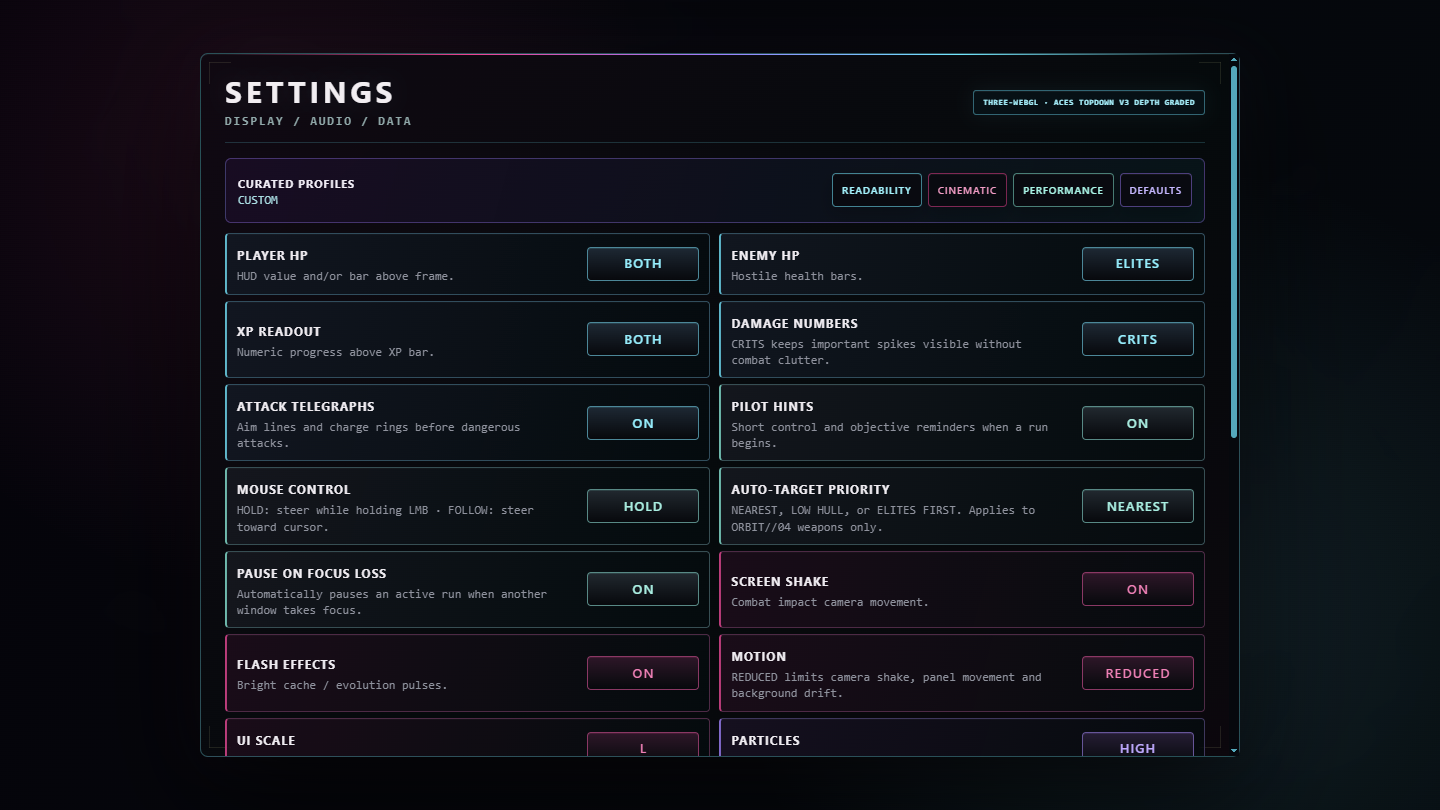
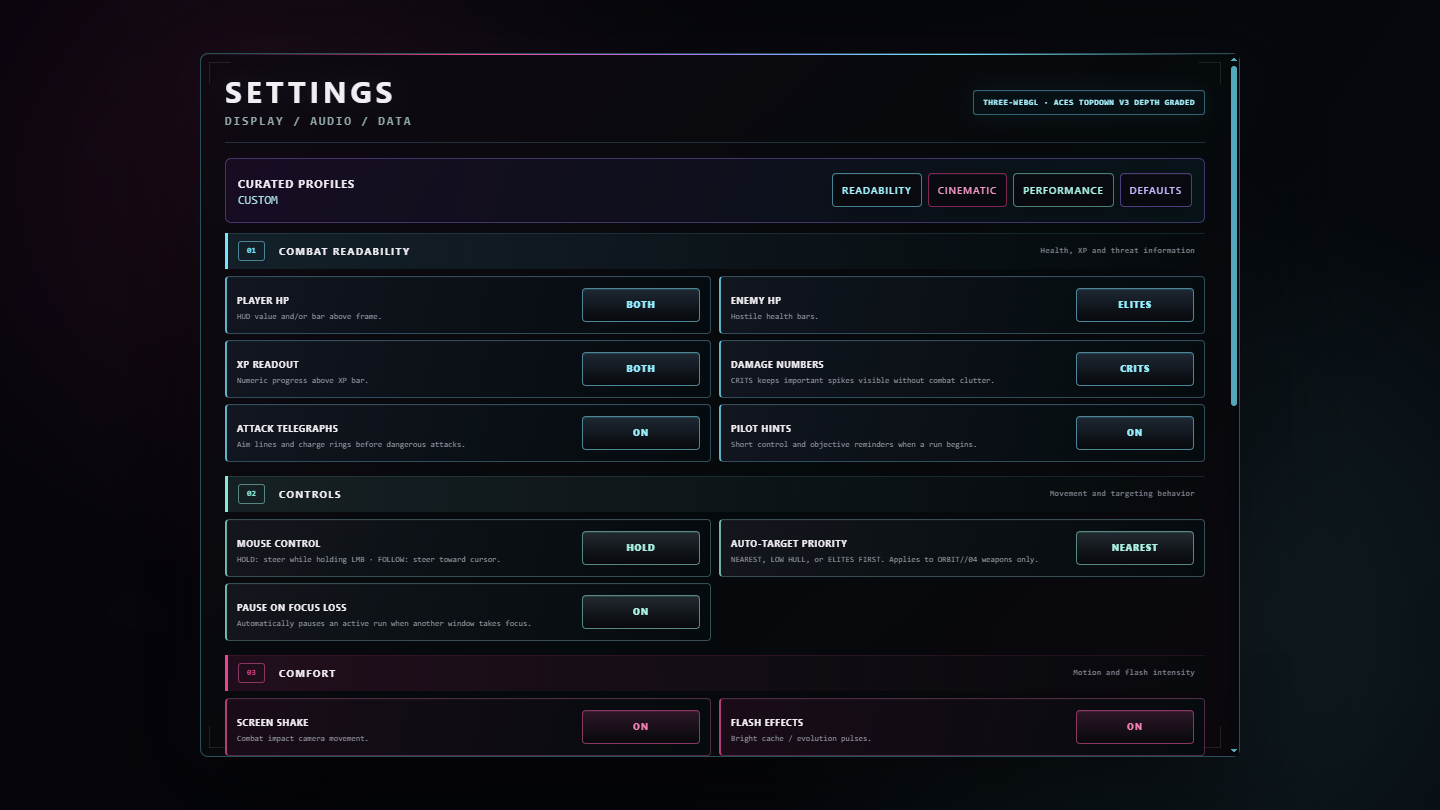
feat: sharpen survivor interface hierarchy

Changed region(s): [[0.1562, 0.2778, 0.875, 0.9259], [0.7188, 0.8025, 0.8438, 0.9259]]

diff --git a/game.js b/game.js
@@ -458,7 +458,7 @@ function renderMenu(){
   for(const [id,s] of Object.entries(SHIPS)){
     const unlocked=save.unlocked.includes(id),selected=save.selected===id;const b=document.createElement('button');b.className=`shipCard${selected?' selected':''}`;
     const cost=id==='oracle'&&save.achievements.includes('iff_friend')?Math.floor(s.cost*.7):s.cost;
-    const mastery=masteryLevel(id);b.style['--ship-accent']=hangarShipPalette(id).accent;b.setAttribute('aria-label',`${s.name}, ${s.role}${unlocked?', unlocked':`, locked, ${cost} credits`}`);b.innerHTML=`<canvas class="shipThumb" width="150" height="68" aria-hidden="true"></canvas><span class="shipCardTop"><b class="shipName">${s.name}</b><i style="color:${masteryColor(mastery)}">M${mastery}</i></span><span class="shipCardRole">${uiIconMarkup('frame')}${s.role}</span><span class="shipCardStatus">${selected?'ACTIVE':unlocked?'AVAILABLE':`${cost} CR`}</span>`;
+    const mastery=masteryLevel(id);b.style['--ship-accent']=hangarShipPalette(id).accent;b.dataset.state=selected?'selected':unlocked?'available':'locked';b.setAttribute('aria-label',`${s.name}, ${s.role}${unlocked?', unlocked':`, locked, ${cost} credits`}`);b.innerHTML=`<span class="shipCardBadge">${selected?'SELECTED':unlocked?'READY':'LOCKED'}</span><canvas class="shipThumb" width="150" height="68" aria-hidden="true"></canvas><span class="shipCardTop"><b class="shipName">${s.name}</b><i style="color:${masteryColor(mastery)}">M${mastery}</i></span><span class="shipCardRole">${uiIconMarkup('frame')}${s.role}</span><span class="shipCardStatus">${selected?'DEPLOYMENT FRAME':unlocked?'CLICK TO SELECT':`${cost} CR TO UNLOCK`}</span>`;
     b.onclick=()=>{AUDIO.sfx('ui');if(!unlocked){if(save.credits>=cost){save.credits-=cost;save.unlocked.push(id);save.selected=id;persist();checkMetaAchievements()}else toast('INSUFFICIENT CREDITS',`${cost-save.credits} CR required.`);return}save.selected=id;persist()};grid.appendChild(b);
     renderShipCanvas(b.querySelector('canvas'),id,false,!unlocked);
   }
@@ -732,10 +732,10 @@ function renderBuildCompass(){const box=$('buildCompass');if(!box)return;const t
 function tryEvolutions(){const evolved=[];for(const [id,w] of Object.entries(state.weapons)){const m=WEAPON_META[id];if(w.evolved||w.level<6||(state.passives[m.req]||0)<4)continue;w.evolved=true;state.evolutions++;if(!save.discoveredEvolutions.includes(id)){save.discoveredEvolutions.push(id);persist(false)}state.score+=420*state.diff.score*(state.contract?.score||1);state.newUnlocks.push(`${m.evo} evolution`);evolved.push(m.evo)}if(evolved.length){AUDIO.sfx('evolve');addShake(5);flashWrap();enqueueCeremony('SYSTEM COMPATIBILITY DETECTED',evolved.join(' / '),680,()=>{AUDIO.sfx('evolve');flashWrap()},'evolution')}checkSynergies();return evolved}
 function buildOfferPool(){
   const offers=[];
-  for(const [id,w] of Object.entries(state.weapons))if(w.level<6){const m=WEAPON_META[id];offers.push({key:`w:${id}`,systemId:id,weight:3.35,kind:'WEAPON',name:m.name,lvl:`LEVEL ${w.level} → ${w.level+1}`,desc:weaponLevelDesc(id,w.level+1),apply:()=>w.level++})}
-  for(const [id,w] of Object.entries(state.weapons))if(w.evolved&&w.overcharge<3){const m=WEAPON_META[id];offers.push({key:`oc:${id}`,systemId:id,weight:.78,kind:'OVERCHARGE',name:m.evo,lvl:`OC ${w.overcharge} → ${w.overcharge+1}`,desc:'System output +16%. Can stack three times after evolution.',apply:()=>{w.overcharge++;save.stats.overcharges++;AUDIO.sfx('overdrive',2)}})}
+  for(const [id,w] of Object.entries(state.weapons))if(w.level<6){const m=WEAPON_META[id];offers.push({key:`w:${id}`,systemId:id,weight:3.35,kind:'WEAPON',name:m.name,lvl:`UPGRADE TO LV ${w.level+1}`,desc:weaponLevelDesc(id,w.level+1),apply:()=>w.level++})}
+  for(const [id,w] of Object.entries(state.weapons))if(w.evolved&&w.overcharge<3){const m=WEAPON_META[id];offers.push({key:`oc:${id}`,systemId:id,weight:.78,kind:'OVERCHARGE',name:m.evo,lvl:`OVERCHARGE ${w.overcharge+1}`,desc:'System output +16%. Can stack three times after evolution.',apply:()=>{w.overcharge++;save.stats.overcharges++;AUDIO.sfx('overdrive',2)}})}
   if(Object.keys(state.weapons).length<5)for(const [id,m] of Object.entries(WEAPON_META))if(!state.weapons[id])offers.push({key:`new:${id}`,systemId:id,weight:1.65,kind:'NEW WEAPON',name:m.name,lvl:'NEW SYSTEM',desc:m.desc,apply:()=>addWeapon(id)});
-  for(const [id,m] of Object.entries(PASSIVES)){const l=state.passives[id]||0;if(l>=m.max)continue;if(id==='iff'&&state.level<5)continue;offers.push({key:`p:${id}`,passiveId:id,weight:id==='iff'?.58:2.05,kind:id==='iff'?'RARE SYSTEM':'MODULE',name:m.name,lvl:l===0?'NEW MODULE':`LEVEL ${l} → ${l+1}`,desc:m.desc(l+1),evo:id==='iff'?'Boss and elite signatures resist conversion.':'',apply:()=>{state.passives[id]=l+1;m.apply(l+1)}})}
+  for(const [id,m] of Object.entries(PASSIVES)){const l=state.passives[id]||0;if(l>=m.max)continue;if(id==='iff'&&state.level<5)continue;offers.push({key:`p:${id}`,passiveId:id,weight:id==='iff'?.58:2.05,kind:id==='iff'?'RARE SYSTEM':'MODULE',name:m.name,lvl:l===0?'NEW MODULE':`UPGRADE TO LV ${l+1}`,desc:m.desc(l+1),evo:id==='iff'?'Boss and elite signatures resist conversion.':'',apply:()=>{state.passives[id]=l+1;m.apply(l+1)}})}
   if(state.level>=9&&Object.keys(state.protocols).length<2)for(const [id,m] of Object.entries(PROTOCOLS))if(!state.protocols[id])offers.push({key:`proto:${id}`,weight:.36,kind:'VOLATILE PROTOCOL',name:m.name,lvl:'ONE-TIME',desc:m.desc,evo:'Permanent risk/reward modifier for this run.',apply:()=>{state.protocols[id]=true;m.apply();AUDIO.sfx('overdrive',2);message(`PROTOCOL INSTALLED\n${m.name}`,900)}});
   if(state.level>=12&&Object.keys(state.artifacts).length<1)for(const [id,m] of Object.entries(ARTIFACTS))if(!state.artifacts[id])offers.push({key:`artifact:${id}`,weight:.10,kind:'ARTIFACT',name:m.name,lvl:'ULTRA-RARE',desc:m.desc,evo:'One artifact maximum per run.',apply:()=>{state.artifacts[id]=true;discoverArtifact(id);m.apply();AUDIO.sfx('artifact');flashWrap();message(`ARTIFACT RECOVERED\n${m.name}`,1200)}});
   if((state.contract?.heal??1)>0)offers.push({key:'repair',weight:state.p.hp<state.p.maxHp*.48?.72:.035,kind:'UTILITY',name:'FIELD REPAIR',lvl:'INSTANT',desc:'Restore 16% maximum hull.',evo:'',apply:()=>state.p.hp=Math.min(state.p.maxHp,state.p.hp+state.p.maxHp*.16*(state.contract?.heal??1))});
@@ -757,7 +757,7 @@ function renderRerollInfo(isNewDraw=false,signalTier=''){const pinned=state.pinn
 function renderOfferPins(offers){const box=$('offerPins');box.innerHTML='';for(const [i,o] of offers.entries()){const b=document.createElement('button'),pinned=state.pinnedOfferKey===o.key;b.className=`offerPin${pinned?' selected':''}`;b.textContent=`${pinned?'PINNED':'PIN'} [${i+1}] ${o.name}`;b.setAttribute('aria-pressed',String(pinned));b.onclick=()=>togglePinnedOffer(o.key);box.appendChild(b)}}
 function togglePinnedOffer(key){if(!state?.choosing||state.choiceMode!=='level')return false;state.pinnedOfferKey=state.pinnedOfferKey===key?'':key;AUDIO.sfx('ui');renderOfferPins(state.currentOffers);renderRerollInfo();return true}
 function openLevel(){state.choosing=true;state.choiceMode='level';state.paused=true;state.pinnedOfferKey='';AUDIO.sfx('level');show('levelScreen');renderOffers()}
-function renderOffers(previousKeys=[],pinnedOffer=null,draw={}){const offers=drawFreshOffers(previousKeys,pinnedOffer,draw.forcedOffer||null),c=$('choices');c.innerHTML='';renderBuildCompass();offers.forEach((o,i)=>{const b=document.createElement('button'),connection=offerConnection(o),shortConnection=connectionSummary(connection),breakpoint=offerBreakpoint(o),impact=offerImpact(o),summary=offerSummary(o),presentation=offerPresentation(o,breakpoint),signalNote=o.signalTier==='RESONANT'?'RESONANT BONUS · +25% DAMAGE FOR 20 SEC':o.signalTier==='TUNED'?'TUNED SIGNAL · MATCHES YOUR CURRENT BUILD':'';b.className=`choice${breakpoint?' breakpoint':''}${o.signalTier?' signalOffer':''}`;b.dataset.tone=presentation.tone;if(o.signalTier)b.dataset.signal=o.signalTier.toLowerCase();b.style.animationDelay=`${i*55}ms`;b.innerHTML=`<span class="choiceTop"><span class="choiceIdentity"><span class="choiceGlyph">${uiIconMarkup(presentation.icon)}</span><span><span class="kind">${o.kind}</span><span class="name"><kbd>${i+1}</kbd>${o.name}</span></span></span><span class="lvl">${o.lvl}</span></span><span class="choiceBenefit"><small>YOU GET</small><b>${summary}</b></span>${signalNote?`<span class="signalBonus">${signalNote}</span>`:''}${shortConnection?`<span class="connection">${shortConnection}</span>`:''}<span class="choiceAction"><span>${presentation.action}</span><kbd>PRESS ${i+1}</kbd></span>`;b.title=[o.desc,impact,signalNote,connection].filter(Boolean).join('\n');b.setAttribute('aria-label',[`${i+1}. ${o.name}`,o.lvl,summary,signalNote,connection].filter(Boolean).join('. '));b.onclick=()=>selectOffer(o);c.appendChild(b)});state.currentOffers=offers;renderOfferPins(offers);renderRerollInfo(previousKeys.length>0,draw.tier||'');$('rerollBtn').disabled=state.rerolls<=0;$('signalDrawBtn').disabled=state.rerolls<=0;$('skipBtn').disabled=state.skips<=0;$('levelMeta').textContent=`LEVEL ${state.level}`}
+function renderOffers(previousKeys=[],pinnedOffer=null,draw={}){const offers=drawFreshOffers(previousKeys,pinnedOffer,draw.forcedOffer||null),c=$('choices');c.innerHTML='';renderBuildCompass();offers.forEach((o,i)=>{const b=document.createElement('button'),connection=offerConnection(o),shortConnection=connectionSummary(connection),breakpoint=offerBreakpoint(o),impact=offerImpact(o),summary=offerSummary(o),presentation=offerPresentation(o,breakpoint),signalNote=o.signalTier==='RESONANT'?'RESONANT BONUS · +25% DAMAGE FOR 20 SEC':o.signalTier==='TUNED'?'TUNED SIGNAL · MATCHES YOUR CURRENT BUILD':'';b.className=`choice${breakpoint?' breakpoint':''}${o.signalTier?' signalOffer':''}`;b.dataset.tone=presentation.tone;if(o.signalTier)b.dataset.signal=o.signalTier.toLowerCase();b.style.animationDelay=`${i*55}ms`;b.innerHTML=`<span class="choiceNumber" aria-hidden="true">${i+1}</span><span class="choiceTop"><span class="choiceIdentity"><span class="choiceGlyph">${uiIconMarkup(presentation.icon)}</span><span><span class="kind">${o.kind}</span><span class="name">${o.name}</span></span></span><span class="lvl">${o.lvl}</span></span><span class="choiceBenefit"><small>INSTANT EFFECT</small><b>${summary}</b></span>${signalNote?`<span class="signalBonus">${signalNote}</span>`:''}${shortConnection?`<span class="connection">${shortConnection}</span>`:''}<span class="choiceAction"><span>${presentation.action}</span><kbd>SELECT ${i+1}</kbd></span>`;b.title=[o.desc,impact,signalNote,connection].filter(Boolean).join('\n');b.setAttribute('aria-label',[`${i+1}. ${o.name}`,o.lvl,summary,signalNote,connection].filter(Boolean).join('. '));b.onclick=()=>selectOffer(o);c.appendChild(b)});state.currentOffers=offers;renderOfferPins(offers);renderRerollInfo(previousKeys.length>0,draw.tier||'');$('rerollBtn').disabled=state.rerolls<=0;$('signalDrawBtn').disabled=state.rerolls<=0;$('skipBtn').disabled=state.skips<=0;$('levelMeta').textContent=`LEVEL ${state.level}`}
 function selectOffer(o){if(!o)return;const breakpoint=offerBreakpoint(o),special=o.key.startsWith('artifact:')||o.key.startsWith('proto:');if(!special)AUDIO.sfx('install',breakpoint?2:1);o.apply();if(o.signalTier==='RESONANT'){state.fieldBoostUntil=Math.max(state.fieldBoostUntil,state.time+20);rewardCue('RESONANT INSTALL',`${o.name} · +25% DAMAGE FOR 20 SEC`,3,1700)}recordUpgrade(o.name,o.kind,[o.lvl,o.signalTier==='RESONANT'?'+25% DAMAGE / 20 SEC':''].filter(Boolean).join(' · '));state.pinnedOfferKey='';state.upgradePulse=.9;state.lastUpgradeLabel=o.name;const evolved=tryEvolutions();if(breakpoint&&!evolved.length&&o.signalTier!=='RESONANT')rewardCue('BREAKPOINT REACHED',o.name,1,1250);hide('levelScreen');state.choosing=false;state.choiceMode='';state.paused=false;state.last=performance.now();processCeremony();if(!state.ceremony)processPendingLevel()}
 $('rerollBtn').onclick=()=>{if(state.rerolls>0){const previousKeys=state.currentOffers.map(o=>o.key),pinnedOffer=state.currentOffers.find(o=>o.key===state.pinnedOfferKey)||null;state.rerolls--;AUDIO.sfx('reroll');renderOffers(previousKeys,pinnedOffer)}};
 $('signalDrawBtn').onclick=()=>{if(state.rerolls<=0)return;const previousKeys=state.currentOffers.map(o=>o.key),pinnedOffer=state.currentOffers.find(o=>o.key===state.pinnedOfferKey)||null,roll=Math.random(),tier=roll<.08?'RESONANT':roll<.35?'TUNED':'FRESH',forcedOffer=signalDrawCandidate(tier,pinnedOffer?.key||'');state.rerolls--;AUDIO.sfx(tier==='RESONANT'?'artifact':tier==='TUNED'?'streak':'reroll');renderOffers(previousKeys,pinnedOffer,{tier,forcedOffer});const result=SIGNAL_DRAW_TIERS[tier];rewardCue(`SIGNAL DRAW · ${tier}`,result.detail,result.tier,1500)};

diff --git a/styles.css b/styles.css
@@ -318,3 +318,93 @@ button:hover:not(:disabled){border-color:rgba(195,190,140,.78);background:linear
 #settingsScreen .settingRow:hover{border-color:color-mix(in srgb,var(--setting-accent) 48%,#34313e);background:linear-gradient(105deg,color-mix(in srgb,var(--setting-accent) 10%,rgba(18,8,20,.90)),rgba(3,13,17,.88));box-shadow:0 0 21px color-mix(in srgb,var(--setting-accent) 6%,transparent)}
 #settingsScreen .settingRow b{color:#f0edf2}#settingsScreen .settingRow .tiny{color:#8e929d}#settingsScreen .settingRow button{border-color:color-mix(in srgb,var(--setting-accent) 48%,#32303b);background:linear-gradient(180deg,color-mix(in srgb,var(--setting-accent) 11%,#17111b),#07090d);color:color-mix(in srgb,var(--setting-accent) 66%,#fff);box-shadow:inset 0 1px color-mix(in srgb,var(--setting-accent) 13%,transparent)}#settingsScreen .settingRow button:hover{border-color:var(--setting-accent);color:#fff;box-shadow:0 0 17px color-mix(in srgb,var(--setting-accent) 11%,transparent)}
 #settingsScreen .audioCheckRow{--setting-accent:var(--settings-violet)!important;background:linear-gradient(105deg,rgba(48,22,72,.40),rgba(3,19,24,.80))}#settingsScreen .dataActions{padding-top:12px;border-top:1px solid rgba(53,231,255,.14)}#settingsScreen .dataActions button{border-color:rgba(53,231,255,.30);background:rgba(5,16,20,.82);color:#a9dce1}#settingsScreen .dataActions .danger{border-color:rgba(255,61,145,.40);background:rgba(31,6,18,.72);color:#d78aa9}#settingsScreen #settingsBackBtn{border-color:rgba(159,124,255,.48);color:#c9bdff;background:rgba(20,12,32,.84)}
+
+/* 0.93 — survivor-first information hierarchy. Large decisions, quiet metadata. */
+#titleScreen .sectionHeading h2{font-size:calc(13px * var(--ui-scale));letter-spacing:.12em;color:#f0edf2}
+#titleScreen .sectionHeading span,#titleScreen .sectionHeading>i{font-size:calc(7px * var(--ui-scale))}
+#titleScreen .runOption{padding:9px 9px 8px;border-radius:5px}
+#titleScreen .runOptionHeader>span{font-size:calc(8px * var(--ui-scale));letter-spacing:.13em}
+#titleScreen .runOption .stepValue{min-height:34px;font-size:calc(12px * var(--ui-scale));font-weight:850;letter-spacing:.07em}
+#titleScreen .runOption .stepArrow{min-height:34px;font-size:18px}
+#titleScreen .optionDetail{display:block!important;min-height:13px!important;margin-top:6px!important;overflow:hidden!important;text-overflow:ellipsis!important;white-space:nowrap!important;font-size:calc(8.4px * var(--ui-scale))!important;line-height:1.25!important;color:#b7b2bc!important}
+#titleScreen .menuStack button{min-height:34px;font-size:calc(9px * var(--ui-scale));font-weight:800;letter-spacing:.06em}
+#titleScreen .menuStack .primary{min-height:45px;font-size:calc(11px * var(--ui-scale));letter-spacing:.075em}
+#titleScreen .launchSummary{min-height:39px;font-size:calc(8px * var(--ui-scale))}
+#titleScreen .footerHelp{margin-top:6px;padding-top:6px}
+
+#titleScreen .shipCard{position:relative;height:104px;padding:8px;isolation:isolate}
+#titleScreen .shipCardBadge{position:absolute;z-index:3;top:7px;left:7px;padding:4px 5px;border:1px solid rgba(255,255,255,.16);border-radius:3px;background:rgba(5,7,10,.88);font:850 calc(6.5px * var(--ui-scale))/1 var(--mono);letter-spacing:.10em;color:#77747c}
+#titleScreen .shipCard[data-state="selected"] .shipCardBadge{border-color:var(--ship-accent);color:var(--ship-accent);box-shadow:0 0 13px color-mix(in srgb,var(--ship-accent) 17%,transparent)}
+#titleScreen .shipCard[data-state="available"] .shipCardBadge{color:#8be9dc}
+#titleScreen .shipCard[data-state="locked"]{filter:saturate(.42);opacity:.72}
+#titleScreen .shipCard[data-state="locked"]:hover{filter:saturate(.72);opacity:.94}
+#titleScreen .shipThumb{top:2px;right:3px;width:66px!important;height:66px!important;margin:0}
+#titleScreen .shipCardTop{position:absolute;z-index:2;left:7px;right:7px;top:32px;display:block;max-width:none;margin:0}
+#titleScreen .shipName{max-width:75%;overflow:hidden;text-overflow:ellipsis;white-space:nowrap;font-size:calc(11px * var(--ui-scale));letter-spacing:.035em}
+#titleScreen .shipCardTop i{position:absolute;left:auto;right:0;top:61px;bottom:auto;font-size:calc(7px * var(--ui-scale));font-weight:850}
+#titleScreen .shipCardRole{position:absolute;z-index:2;left:7px;right:67px;top:56px;display:flex;overflow:hidden;text-overflow:ellipsis;white-space:nowrap;font-size:calc(6.8px * var(--ui-scale));letter-spacing:.07em}
+#titleScreen .shipCardStatus{position:absolute;z-index:2;left:7px;right:38px;bottom:7px;overflow:hidden;text-overflow:ellipsis;white-space:nowrap;font-size:calc(6.5px * var(--ui-scale));font-weight:800;letter-spacing:.075em}
+
+#levelScreen .headerSplit{margin-bottom:9px;padding-bottom:10px}
+#levelScreen .headerSplit h1{font-size:calc(29px * var(--ui-scale))}
+#levelScreen .headerSplit h2{margin-top:4px;font-size:calc(10px * var(--ui-scale));color:#a4c7cb}
+#levelScreen .choiceGuide{grid-template-columns:1.35fr repeat(3,.72fr);padding:5px;margin-bottom:7px;background:linear-gradient(90deg,rgba(25,8,23,.62),rgba(3,15,18,.68))}
+#levelScreen .choiceGuide>span{grid-template-columns:22px auto;padding:6px 8px}
+#levelScreen .choiceGuide small{font-size:calc(7.5px * var(--ui-scale))}
+#levelScreen .buildCompass{padding:8px 10px;margin-bottom:8px}
+#levelScreen .choice{position:relative;min-height:218px;padding:17px 15px 14px;overflow:hidden}
+#levelScreen .choiceNumber{position:absolute;right:-3px;bottom:-16px;z-index:-1;font:950 108px/1 var(--sans);color:color-mix(in srgb,var(--choice-accent) 8%,transparent);pointer-events:none}
+#levelScreen .choiceGlyph{width:44px;height:44px;flex-basis:44px}
+#levelScreen .choiceGlyph .uiIcon{width:22px;height:22px}
+#levelScreen .choice .kind{font-size:calc(8.5px * var(--ui-scale));letter-spacing:.14em}
+#levelScreen .choice .name{font-size:calc(16px * var(--ui-scale));line-height:1.08;letter-spacing:.02em}
+#levelScreen .choice .lvl{min-width:98px;font-size:calc(8.5px * var(--ui-scale));font-weight:850}
+#levelScreen .choiceBenefit{min-height:64px;padding:11px 12px;border-width:2px}
+#levelScreen .choiceBenefit small{font-size:calc(7.5px * var(--ui-scale));letter-spacing:.16em}
+#levelScreen .choiceBenefit b{font-size:calc(11.5px * var(--ui-scale));line-height:1.35;letter-spacing:.015em}
+#levelScreen .choice .connection{font-size:calc(8.5px * var(--ui-scale));font-weight:750}
+#levelScreen .choiceAction{font-size:calc(8.3px * var(--ui-scale));color:#f0edf2}
+#levelScreen .choiceAction kbd{font-size:calc(7.5px * var(--ui-scale));color:var(--choice-accent)}
+#levelScreen .offerPin{padding:8px;font-size:calc(7.5px * var(--ui-scale));letter-spacing:.055em}
+#levelScreen .levelFooter{min-height:65px}
+
+#settingsScreen .settingsList{grid-template-columns:repeat(2,minmax(0,1fr));gap:6px 8px}
+#settingsScreen .settingsGroupHeader{--group-accent:var(--settings-cyan);grid-column:1/-1;display:grid;grid-template-columns:32px auto 1fr;align-items:center;gap:9px;margin:8px 0 1px;padding:8px 10px;border-left:3px solid var(--group-accent);background:linear-gradient(90deg,color-mix(in srgb,var(--group-accent) 11%,rgba(9,8,14,.96)),rgba(4,11,14,.42));box-shadow:inset 0 1px color-mix(in srgb,var(--group-accent) 12%,transparent)}
+#settingsScreen .settingsGroupHeader:first-child{margin-top:0}
+#settingsScreen .settingsGroupHeader span{display:grid;place-items:center;width:27px;height:20px;border:1px solid color-mix(in srgb,var(--group-accent) 48%,#302b37);border-radius:3px;font:850 8px/1 var(--mono);color:var(--group-accent)}
+#settingsScreen .settingsGroupHeader b{font-size:10px;letter-spacing:.13em;color:#f1edf3}
+#settingsScreen .settingsGroupHeader small{justify-self:end;font:650 8px/1 var(--mono);letter-spacing:.035em;color:#777b86}
+#settingsScreen .settingsGroupHeader.settings-mint{--group-accent:var(--settings-mint)}
+#settingsScreen .settingsGroupHeader.settings-magenta{--group-accent:var(--settings-magenta)}
+#settingsScreen .settingsGroupHeader.settings-violet{--group-accent:var(--settings-violet)}
+#settingsScreen .settingsGroupHeader.settings-cyan:first-child + .settingRow,
+#settingsScreen .settingsGroupHeader.settings-cyan:first-child + .settingRow + .settingRow,
+#settingsScreen .settingsGroupHeader.settings-cyan:first-child + .settingRow + .settingRow + .settingRow,
+#settingsScreen .settingsGroupHeader.settings-cyan:first-child + .settingRow + .settingRow + .settingRow + .settingRow,
+#settingsScreen .settingsGroupHeader.settings-cyan:first-child + .settingRow + .settingRow + .settingRow + .settingRow + .settingRow,
+#settingsScreen .settingsGroupHeader.settings-cyan:first-child + .settingRow + .settingRow + .settingRow + .settingRow + .settingRow + .settingRow{--setting-accent:var(--settings-cyan)}
+#settingsScreen .settingsGroupHeader.settings-mint + .settingRow,
+#settingsScreen .settingsGroupHeader.settings-mint + .settingRow + .settingRow,
+#settingsScreen .settingsGroupHeader.settings-mint + .settingRow + .settingRow + .settingRow{--setting-accent:var(--settings-mint)}
+#settingsScreen .settingsGroupHeader.settings-magenta + .settingRow,
+#settingsScreen .settingsGroupHeader.settings-magenta + .settingRow + .settingRow,
+#settingsScreen .settingsGroupHeader.settings-magenta + .settingRow + .settingRow + .settingRow,
+#settingsScreen .settingsGroupHeader.settings-magenta + .settingRow + .settingRow + .settingRow + .settingRow{--setting-accent:var(--settings-magenta)}
+#settingsScreen .settingsGroupHeader.settings-violet + .settingRow,
+#settingsScreen .settingsGroupHeader.settings-violet + .settingRow + .settingRow,
+#settingsScreen .settingsGroupHeader.settings-violet + .settingRow + .settingRow + .settingRow,
+#settingsScreen .settingsGroupHeader.settings-violet + .settingRow + .settingRow + .settingRow + .settingRow,
+#settingsScreen .settingsGroupHeader.settings-violet + .settingRow + .settingRow + .settingRow + .settingRow + .settingRow,
+#settingsScreen .settingsGroupHeader.settings-violet + .settingRow + .settingRow + .settingRow + .settingRow + .settingRow + .settingRow{--setting-accent:var(--settings-violet)}
+#settingsScreen .settingsGroupHeader.settings-cyan:not(:first-child) + .settingRow,
+#settingsScreen .settingsGroupHeader.settings-cyan:not(:first-child) + .settingRow + .settingRow,
+#settingsScreen .settingsGroupHeader.settings-cyan:not(:first-child) + .settingRow + .settingRow + .settingRow,
+#settingsScreen .settingsGroupHeader.settings-cyan:not(:first-child) + .settingRow + .settingRow + .settingRow + .settingRow,
+#settingsScreen .settingsGroupHeader.settings-cyan:not(:first-child) + .settingRow + .settingRow + .settingRow + .settingRow + .settingRow{--setting-accent:var(--settings-cyan)}
+#settingsScreen .settingRow{min-height:58px;padding:9px 10px;border-radius:4px}
+#settingsScreen .settingRow b{font-size:calc(9px * var(--ui-scale));letter-spacing:.065em}
+#settingsScreen .settingRow .tiny{margin-top:4px;font-size:calc(8px * var(--ui-scale));line-height:1.25}
+#settingsScreen .settingRow button{min-width:118px;font-size:calc(9px * var(--ui-scale));font-weight:850}
+
+@media(max-width:900px){#settingsScreen .settingsList{grid-template-columns:1fr}#settingsScreen .settingsGroupHeader{grid-column:1}}
+@media(max-width:780px){#settingsScreen .settingsGroupHeader small{display:none}#levelScreen .choiceGuide{grid-template-columns:1fr 1fr}#levelScreen .choice{min-height:170px}}

diff --git a/index.html b/index.html
@@ -102,8 +102,8 @@
           <div id="shipGrid" class="shipGrid"></div>
         </div>
         <div class="sideMenu">
-          <div class="menuFlow" aria-label="Deployment steps"><span><b>1</b> SELECT FRAME</span><span><b>2</b> SET MISSION</span><span><b>3</b> DEPLOY</span></div>
-          <div class="sectionHeading"><div><span>DEPLOYMENT</span><h2>CHOOSE YOUR RUN</h2></div><i>3 DECISIONS</i></div>
+          <div class="menuFlow" aria-label="Deployment steps"><span><b>1</b> PICK SHIP</span><span><b>2</b> SET RUN</span><span><b>3</b> SURVIVE</span></div>
+          <div class="sectionHeading"><div><span>DEPLOYMENT</span><h2>MISSION SETUP</h2></div><i>3 CHOICES</i></div>
           <div class="runOption difficultyOption">
             <div class="runOptionHeader"><span><svg class="uiIcon optionIcon"><use href="#icon-threat"/></svg> DIFFICULTY</span><i>THREAT</i></div>
             <div class="optionStepper"><button id="difficultyPrev" class="stepArrow" aria-label="Previous difficulty">‹</button><button id="difficultyBtn" class="stepValue"></button><button id="difficultyNext" class="stepArrow" aria-label="Next difficulty">›</button></div>
@@ -147,12 +147,12 @@
 
   <section id="levelScreen" class="overlay">
     <div class="panel levelPanel">
-      <div class="headerSplit"><div><h1>LEVEL UP</h1><h2>INSTALL ONE MODULE</h2></div><div id="levelMeta" class="tag"></div></div>
+      <div class="headerSplit"><div><h1>LEVEL UP</h1><h2>CHOOSE ONE UPGRADE</h2></div><div id="levelMeta" class="tag"></div></div>
       <div class="choiceGuide" aria-label="Upgrade choice guide">
-        <span class="guideAction"><b>1–3</b><em>CHOOSE ONE</em><small>Installs immediately</small></span>
-        <span data-tone="weapon"><svg class="uiIcon" aria-hidden="true"><use href="#icon-weapon"/></svg><em>WEAPON</em><small>Adds or improves auto-fire</small></span>
-        <span data-tone="module"><svg class="uiIcon" aria-hidden="true"><use href="#icon-trait"/></svg><em>MODULE</em><small>Improves your whole build</small></span>
-        <span data-tone="breakpoint"><svg class="uiIcon" aria-hidden="true"><use href="#icon-output"/></svg><em>BREAKPOINT</em><small>Major power step</small></span>
+        <span class="guideAction"><b>1–3</b><em>PICK A CARD</em><small>The effect applies now</small></span>
+        <span data-tone="weapon"><svg class="uiIcon" aria-hidden="true"><use href="#icon-weapon"/></svg><em>CYAN</em><small>Weapon</small></span>
+        <span data-tone="module"><svg class="uiIcon" aria-hidden="true"><use href="#icon-trait"/></svg><em>VIOLET</em><small>Build module</small></span>
+        <span data-tone="breakpoint"><svg class="uiIcon" aria-hidden="true"><use href="#icon-output"/></svg><em>BRIGHT</em><small>Power spike</small></span>
       </div>
       <div id="buildCompass" class="buildCompass" aria-live="polite"></div>
       <div id="choices" class="choiceGrid"></div>
@@ -270,25 +270,30 @@
         <div class="presetButtons"><button id="readabilityPresetBtn">READABILITY</button><button id="cinematicPresetBtn">CINEMATIC</button><button id="performancePresetBtn">PERFORMANCE</button><button id="defaultsPresetBtn">DEFAULTS</button></div>
       </div>
       <div class="settingsList">
+        <div class="settingsGroupHeader settings-cyan"><span>01</span><b>COMBAT READABILITY</b><small>Health, XP and threat information</small></div>
         <div class="settingRow"><div><b>PLAYER HP</b><div class="tiny">HUD value and/or bar above frame.</div></div><button id="playerHpSetting"></button></div>
         <div class="settingRow"><div><b>ENEMY HP</b><div class="tiny">Hostile health bars.</div></div><button id="enemyHpSetting"></button></div>
         <div class="settingRow"><div><b>XP READOUT</b><div class="tiny">Numeric progress above XP bar.</div></div><button id="xpSetting"></button></div>
         <div class="settingRow"><div><b>DAMAGE NUMBERS</b><div class="tiny">CRITS keeps important spikes visible without combat clutter.</div></div><button id="damageNumbersSetting"></button></div>
         <div class="settingRow"><div><b>ATTACK TELEGRAPHS</b><div class="tiny">Aim lines and charge rings before dangerous attacks.</div></div><button id="telegraphSetting"></button></div>
         <div class="settingRow"><div><b>PILOT HINTS</b><div class="tiny">Short control and objective reminders when a run begins.</div></div><button id="hintsSetting"></button></div>
+        <div class="settingsGroupHeader settings-mint"><span>02</span><b>CONTROLS</b><small>Movement and targeting behavior</small></div>
         <div class="settingRow"><div><b>MOUSE CONTROL</b><div class="tiny">HOLD: steer while holding LMB · FOLLOW: steer toward cursor.</div></div><button id="mouseSetting"></button></div>
         <div class="settingRow"><div><b>AUTO-TARGET PRIORITY</b><div class="tiny">NEAREST, LOW HULL, or ELITES FIRST. Applies to ORBIT//04 weapons only.</div></div><button id="targetPrioritySetting"></button></div>
         <div class="settingRow"><div><b>PAUSE ON FOCUS LOSS</b><div class="tiny">Automatically pauses an active run when another window takes focus.</div></div><button id="autoPauseSetting"></button></div>
+        <div class="settingsGroupHeader settings-magenta"><span>03</span><b>COMFORT</b><small>Motion and flash intensity</small></div>
         <div class="settingRow"><div><b>SCREEN SHAKE</b><div class="tiny">Combat impact camera movement.</div></div><button id="shakeSetting"></button></div>
         <div class="settingRow"><div><b>FLASH EFFECTS</b><div class="tiny">Bright cache / evolution pulses.</div></div><button id="flashSetting"></button></div>
         <div class="settingRow"><div><b>MOTION</b><div class="tiny">REDUCED limits camera shake, panel movement and background drift.</div></div><button id="motionSetting"></button></div>
         <div class="settingRow"><div><b>UI SCALE</b><div class="tiny">Size of menus, descriptions and the combat HUD.</div></div><button id="uiScaleSetting"></button></div>
+        <div class="settingsGroupHeader settings-violet"><span>04</span><b>GRAPHICS</b><small>Effects, detail and background</small></div>
         <div class="settingRow"><div><b>PARTICLES</b><div class="tiny">Visual debris density.</div></div><button id="particleSetting"></button></div>
         <div class="settingRow"><div><b>GRAPHICS PRESET</b><div class="tiny">Geometry detail and space-fog density.</div></div><button id="graphicsSetting"></button></div>
         <div class="settingRow"><div><b>EFFECT CLARITY</b><div class="tiny">HIGH adds hostile-fire outlines, role glyphs and threat-color separation.</div></div><button id="effectClaritySetting"></button></div>
         <div class="settingRow"><div><b>GLOW FX</b><div class="tiny">Additive weapon, ship and hostile lighting.</div></div><button id="glowSetting"></button></div>
         <div class="settingRow"><div><b>DEAD UNIVERSE</b><div class="tiny">FULL keeps animated ash fields and visible midtones; SIMPLE and OFF reduce detail.</div></div><button id="backgroundSetting"></button></div>
         <div class="settingRow"><div><b>CONTRAST</b><div class="tiny">HIGH improves HUD and object separation.</div></div><button id="contrastSetting"></button></div>
+        <div class="settingsGroupHeader settings-cyan"><span>05</span><b>AUDIO</b><small>Mix, music and impact volume</small></div>
         <div class="settingRow"><div><b>AUDIO</b><div class="tiny">Desktop music, engine ambience, weapons and impact samples.</div></div><button id="audioSetting"></button></div>
         <div class="settingRow"><div><b>DYNAMIC RANGE</b><div class="tiny">CINEMA is widest · NIGHT keeps impacts controlled and dialogue-like cues clear.</div></div><button id="audioMixSetting"></button></div>
         <div class="settingRow"><div><b>SFX VOLUME</b><div class="tiny">Weapons, impacts and interface feedback.</div></div><button id="sfxVolumeSetting"></button></div>

diff --git a/README.md b/README.md
@@ -108,7 +108,7 @@ This 1440 × 810 image was captured from the active 0.92.0 Electron/Three.js Web
 
 ![ORBIT//04 version 0.92.0 level-up interface](docs/level-up-v0.92.0.png)
 
-The level-up capture verifies the cold cyan-violet hierarchy, plain-language `NEW MODULE` and `NEW SYSTEM` states, exact immediate benefits, and the disclosed earned-reroll Resonance Draw at the same desktop resolution.
+The level-up capture verifies the cold cyan-violet hierarchy, plain-language `NEW MODULE`, `NEW SYSTEM`, and `UPGRADE TO LV` states, dominant instant-effect summaries, and the disclosed earned-reroll Resonance Draw at the same desktop resolution.
 
 ## Audio implementation
 
@@ -138,7 +138,7 @@ The settings screen provides:
 
 ![ORBIT//04 version 0.92.0 settings interface](docs/settings-v0.92.0.png)
 
-The settings capture is generated from the desktop build. Cyan groups information and combat readability, mint identifies controls, magenta marks motion and comfort effects, and violet identifies presentation quality. The palette remains dark without relying on yellow or grey-only state changes.
+The settings capture is generated from the desktop build. Numbered section headers separate combat readability, controls, comfort, graphics, and audio before the individual controls begin. Cyan groups information and combat readability, mint identifies controls, magenta marks motion and comfort effects, and violet identifies presentation quality. The palette remains dark without relying on yellow or grey-only state changes.
 
 ## Requirements
 

diff --git a/CHANGELOG.md b/CHANGELOG.md
@@ -12,6 +12,10 @@
 - assigned stable magenta, cyan, and violet identities to difficulty, sector, and contract selection instead of presenting every mission choice in the same grey hierarchy
 - rebuilt the settings palette around restrained readability, control, motion, visual, and audio accents, including a matching non-yellow scrollbar
 - added an automated 1440 × 810 settings capture and refreshed the Steam release runbook to the current build
+- rebuilt the launch hierarchy around three plain-language steps, larger mission values, one-line run summaries, and explicit selected, ready, and locked frame states
+- rebuilt upgrade cards around a large name, a dominant instant-effect panel, direct `UPGRADE TO LV` language, and number-key selection without repeating instructions
+- divided the settings list into combat readability, controls, comfort, graphics, and audio sections while retaining presets and individual controls
+- refreshed all three automated interface captures after desktop rendering and overflow verification
 
 ## 0.91.0 — Navigation and Survival HUD
 
